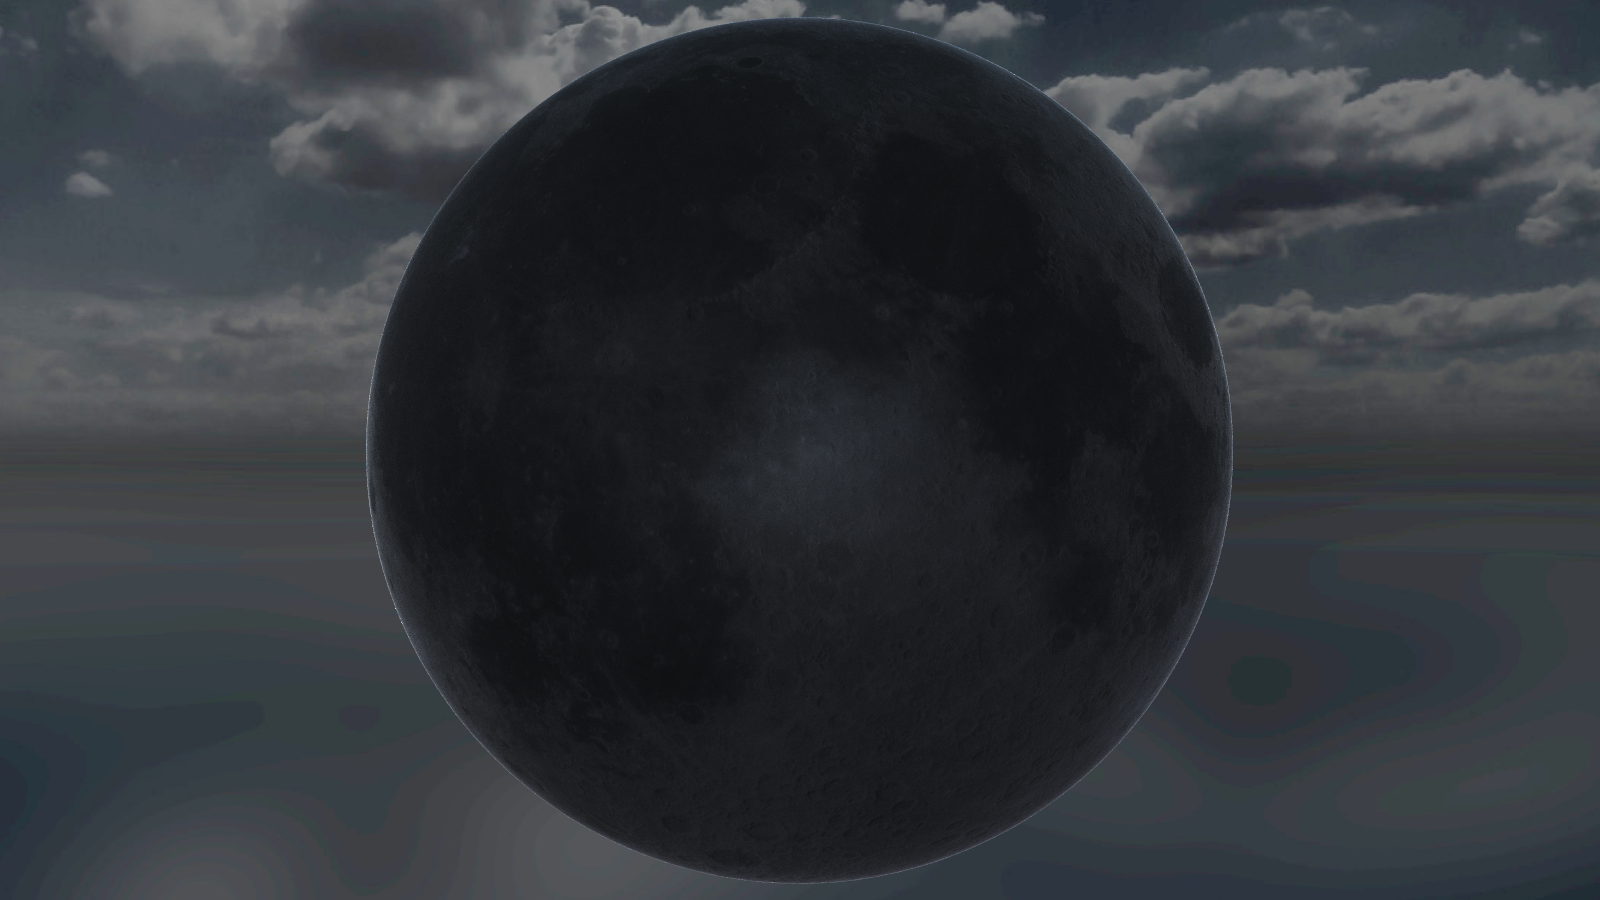
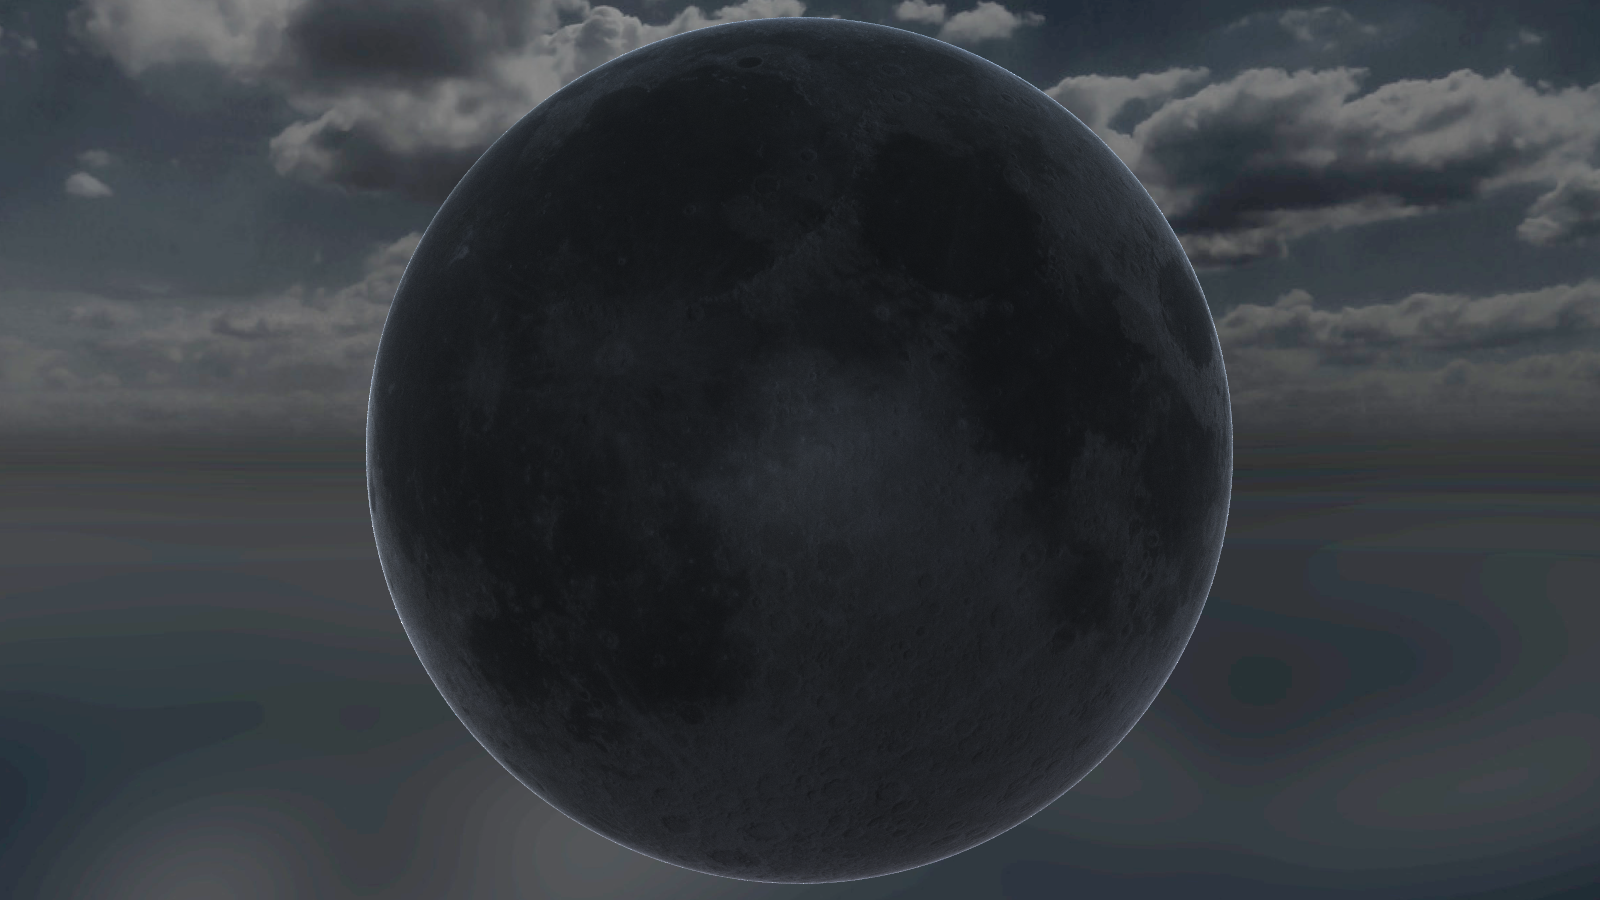
Hapke image rerender.

diff --git a/src/main.cpp b/src/main.cpp
@@ -53,7 +53,7 @@ int main() {
     default:
     case SCENEPATH::MOON :
         auto moonTexture = make_shared<ImageTexture>(MOON_FILE);
-        shared_ptr<Material> moonMaterial = make_shared<LunarLambert>(moonTexture, .3, .7);
+        shared_ptr<Material> moonMaterial = make_shared<Hapke>(moonTexture, .5);
         world = MoonScene(moonMaterial);
         lookfrom = Point3(7, 0, 0);
         lookat = Point3(0, 0, 0);

diff --git a/src/FileResources.h b/src/FileResources.h
@@ -3,6 +3,5 @@ using namespace std;
 #pragma once
 
 const static string MOON_FILE = "extern\\img\\moon.jpg";
-const static string SKYBOX_FILE = "extern\\img\\daysky.jpg";
+const static string SKYBOX_FILE = "extern\\img\\nightsky.jpg";
 const static string OUTPUT = "postlambert_output.ppm";
-
